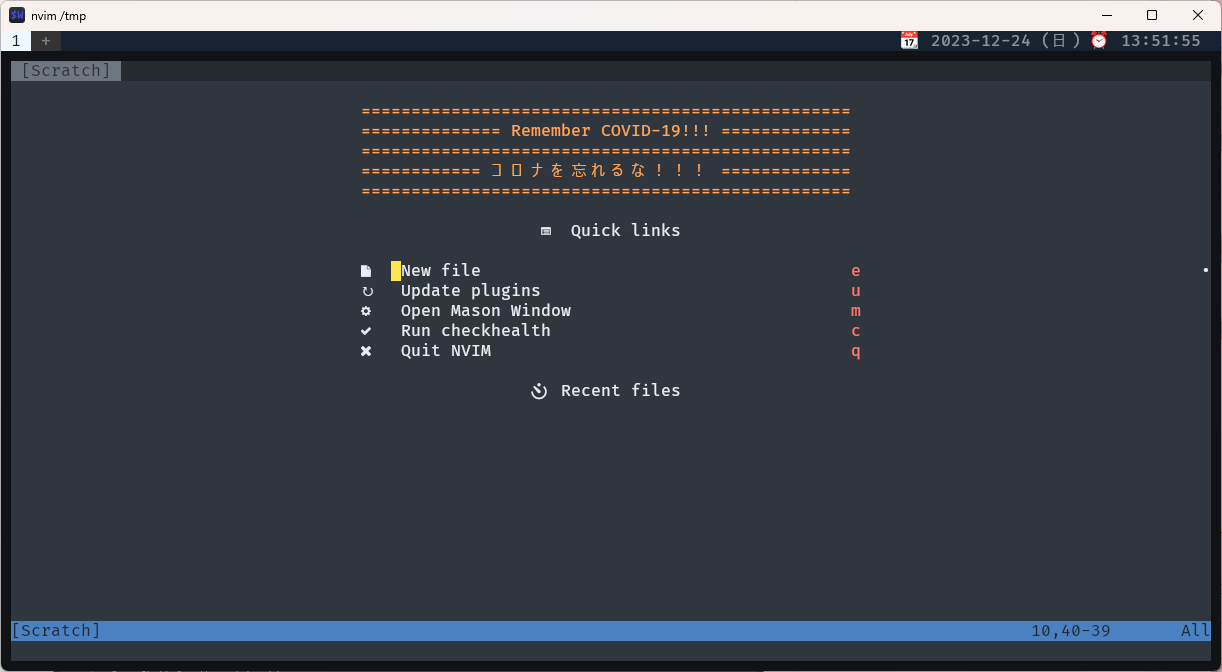
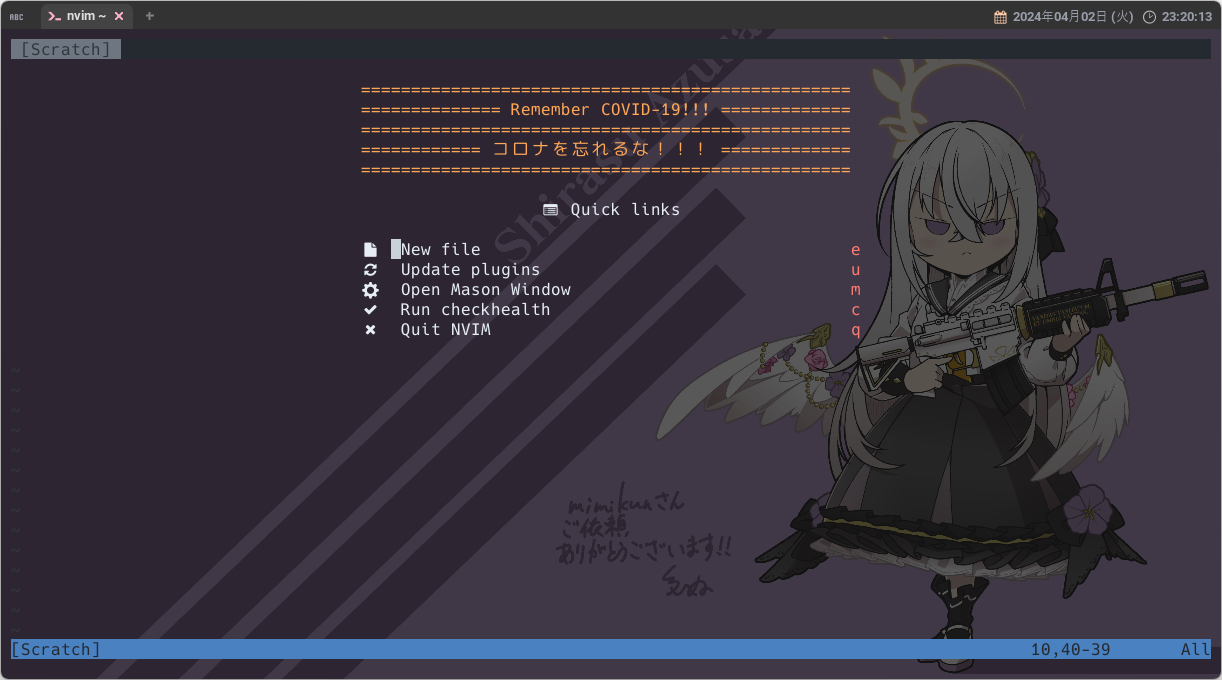
chore(readme): update images

Changed region(s): [[0.0, 0.0, 1.0, 1.0], [0.2799, 0.3438, 0.4664, 0.5312]]

diff --git a/README.md b/README.md
@@ -15,8 +15,8 @@ mimikun's dotfiles. managed by [chezmoi](https://www.chezmoi.io/).
 
 ## Screenshots
 
+![my terminal](docs/images/terminal.png)
 ![my neovim dashboard](docs/images/neovim-dashboard.png)
-![my neovim editor](docs/images/neovim-editor.png)
 
 ## Setup
 
